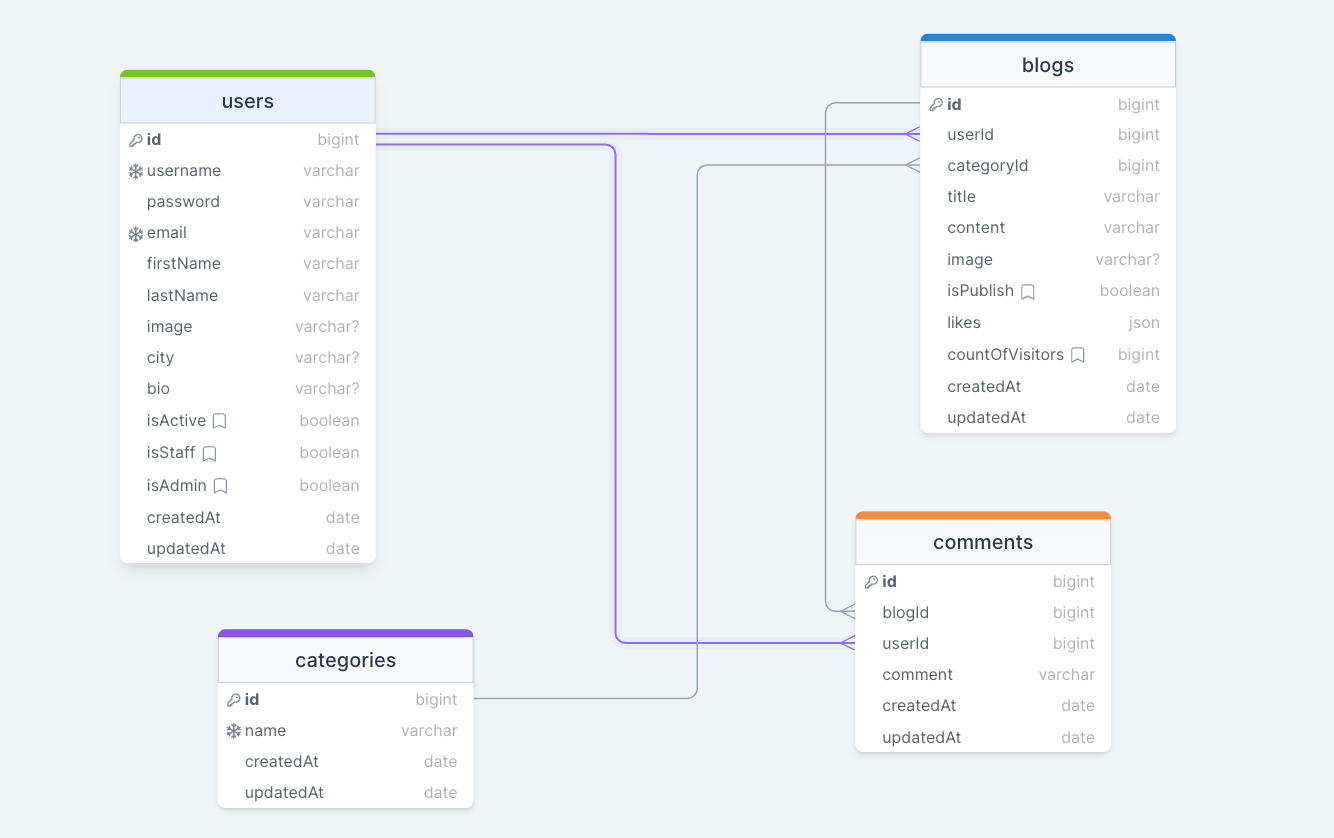
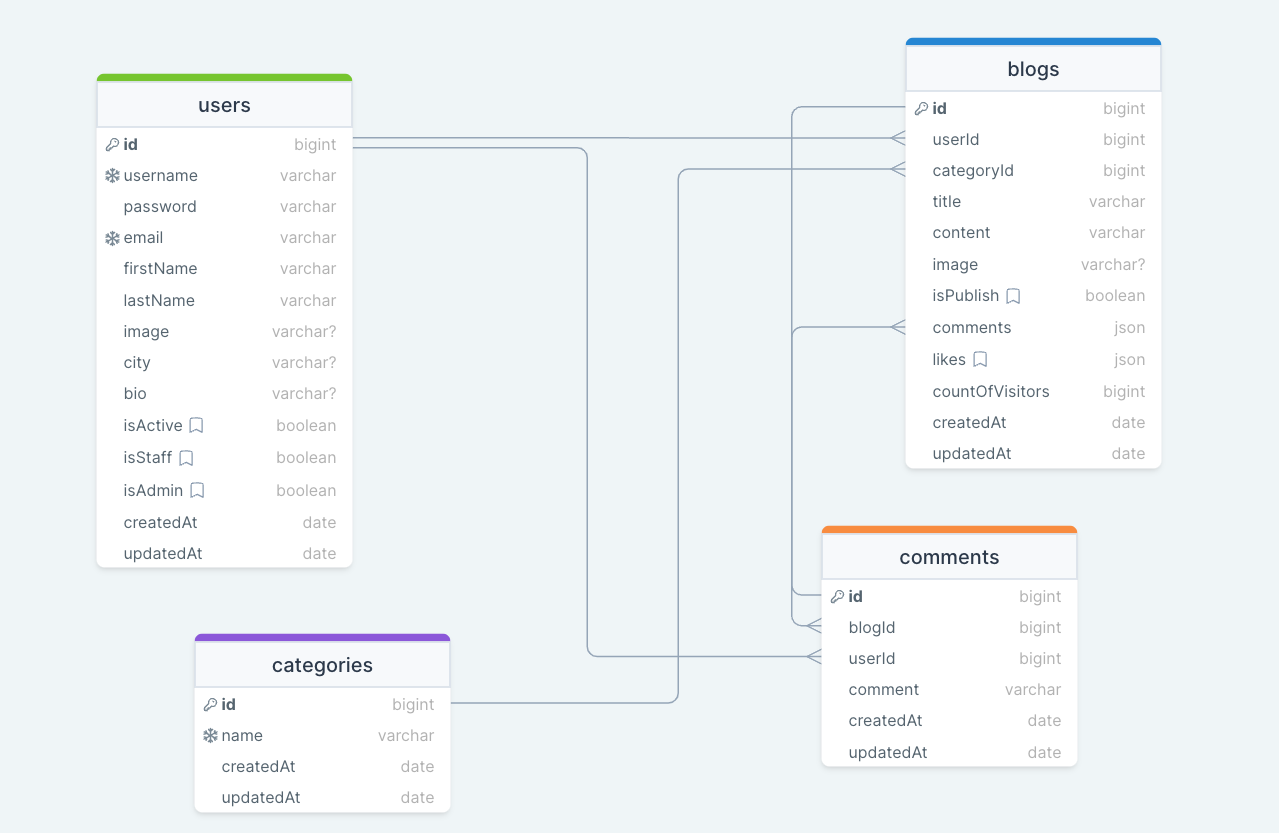
counter and comment end

Changed region(s): [[0.0915, 0.0312, 0.9148, 0.9052], [0.1525, 0.7491, 0.3659, 0.9676]]

diff --git a/src/controllers/blog.js b/src/controllers/blog.js
@@ -36,10 +36,25 @@ module.exports = {
 
     const data = await res.getModelList(Blog, filters);
 
+    const modifiedData = data.map((blog) => ({
+      _id: blog._id, // _id özelliğini kopyala
+      userId: blog.userId,
+      categoryId: blog.categoryId,
+      title: blog.title,
+      content: blog.content,
+      image: blog.image,
+      isPublish: blog.isPublish,
+      comments: blog.comments,
+      likes: blog.likes,
+      countOfVisitors: blog.countOfVisitors,
+      createdAt: blog.createdAt,
+      updatedAt: blog.updatedAt,
+    }));
+
     res.status(200).send({
       error: false,
       details: await res.getModelListDetails(Blog, filters),
-      data,
+      data: modifiedData,
     });
   },
 
@@ -69,7 +84,6 @@ module.exports = {
 
     res.status(201).send({
       error: false,
-      // body: req.body,
       data,
     });
   },
@@ -88,12 +102,52 @@ module.exports = {
         path: "comments",
         populate: { path: "userId", select: "username firstName lastName" },
       },
-      /* -------------------------------------------------------------------------- */
-
-      /* -------------------------------------------------------------------------- */
     ]);
 
+    if (!data) {
+      // Eğer blog bulunamadıysa, boş bir nesne dön
+      return res.status(404).send({
+        error: true,
+        message: "Blog not found",
+        data: {},
+      });
+    }
+
+    // console.log(data);
     /* -------------------------------------------------------------------------- */
+    // Check if the user's ID is already in visitedUsers array
+    // if (!data.visitedUsers.includes(req.user._id)) {
+    if (
+      data.visitedUsers &&
+      Array.isArray(data.visitedUsers) &&
+      !data.visitedUsers.includes(req.user._id)
+    ) {
+      // If not, push the user's ID to visitedUsers array
+      data.visitedUsers.push(req.user._id);
+
+      // Increment countOfVisitors for the blog
+      data.countOfVisitors++;
+
+      // Save the changes
+      await data.save();
+    }
+
+    // Check if the user has visited this blog before
+    // if (!req.user.visitedBlogs.includes(req.params.id)) {
+    if (
+      req.user?.visitedBlogs &&
+      Array.isArray(req.user.visitedBlogs) &&
+      !req.user?.visitedBlogs.includes(req.params.id)
+    ) {
+      // If not, mark the blog as visited for this user
+      req.user.visitedBlogs.push(req.params.id);
+
+      // Save the changes to the user model
+      await req.user.save();
+    }
+
+    /* -------------------------------------------------------------------------- */
+
     //! Count of visitor icin sonra edit lenecek...
     //* Visitor Counter for per IP:
     // if (req.session?.visitorIp != req.ip) {
@@ -103,13 +157,44 @@ module.exports = {
     // }
     //! Count of visitor icin sonra edit lenecek...
     /* -------------------------------------------------------------------------- */
+    // console.log(req.ip);
+    // console.log(req.session.visitorIp);
+
+    // if (!req.session.visitedBlogs) {
+    //   req.session.visitedBlogs = []; // Eğer ziyaret edilen bloglar için bir dizi yoksa, boş bir dizi oluştur
+    //   console.log("xxxxxxxx:" + req.session.visitedBlogs);
+    // }
+
+    // if (
+    //   req.session.visitorIp !== req.ip &&
+    //   !req.session.visitedBlogs.includes(data.blogId)
+    // ) {
+    //   req.session.visitorIp = req.ip;
+    //   req.session.visitedBlogs.push(data.blogId); // Ziyaret edilen blogları listeye ekleyin
+    //   data.countOfVisitors++;
+    //   data.save();
+    // }
 
     res.status(200).send({
       error: false,
-      data,
+      data: {
+        _id: data._id,
+        userId: data.userId,
+        categoryId: data.categoryId,
+        title: data.title,
+        content: data.content,
+        image: data.image,
+        isPublish: data.isPublish,
+        comments: data.comments,
+        likes: data.likes,
+        countOfVisitors: data.countOfVisitors,
+        createdAt: data.createdAt,
+        updatedAt: data.updatedAt,
+      },
     });
   },
 
+  /* -------------------------------------------------------------------------- */
   //! /:id -> PUT / PATCH
   update: async (req, res) => {
     /*
@@ -138,10 +223,28 @@ module.exports = {
       { runValidators: true }
     );
 
+    // Güncellenmiş blogu veritabanından al
+    const updatedBlog = await Blog.findOne({ _id: req.params.id });
+
+    const modifiedBlog = {
+      userId: updatedBlog.userId,
+      categoryId: updatedBlog.categoryId,
+      title: updatedBlog.title,
+      content: updatedBlog.content,
+      image: updatedBlog.image,
+      isPublish: updatedBlog.isPublish,
+      comments: updatedBlog.comments,
+      likes: updatedBlog.likes,
+      countOfVisitors: updatedBlog.countOfVisitors,
+      createdAt: updatedBlog.createdAt,
+      updatedAt: updatedBlog.updatedAt,
+    };
+
     res.status(202).send({
       error: false,
       data,
-      new: await Blog.findOne({ _id: req.params.id }),
+      new: modifiedBlog,
+      // new: await Blog.findOne({ _id: req.params.id }),
     });
   },
 

diff --git a/src/models/user.js b/src/models/user.js
@@ -1,4 +1,5 @@
 "use strict";
+const { json } = require("express");
 /* --------------------------------------------------------------------------
     * NODEJS EXPRESS | Blog API
 ----------------------------------------------------------------------------- */
@@ -92,12 +93,25 @@ const UserSchema = new mongoose.Schema(
       type: Boolean,
       default: false,
     },
+
+    visitedBlogs: {
+      type: [],
+      // select: false,
+    },
   },
   {
     collection: "users",
     timestamps: true,
   }
 );
+
+// /* -------------------------------------------------------------------------- */
+//! veriyi cikti vermeden hemen once manipulasyon:
+// pre ,init, pre save,postsave ...
+// UserSchema.pre("init", function (document) {
+//   document.__v = undefined; // görünümden kaldırır
+//   document.visitedBlogs = undefined; // görünümden kaldırır
+// });
 
 /* -------------------------------------------------------------------------- */
 module.exports = mongoose.model("User", UserSchema);

diff --git a/index.js b/index.js
@@ -16,6 +16,7 @@
 /* -------------------------------------------------------------------------- */
 //? Required Modules:
 const express = require("express");
+const session = require("express-session");
 const app = express();
 
 // envVariables to process.env:
@@ -24,6 +25,16 @@ const PORT = process.env?.PORT || 8000;
 
 // asyncErrors to errorHandler:
 require("express-async-errors");
+
+/* -------------------------------------------------------------------------- */
+//? Session Modules:
+app.use(
+  session({
+    secret: process.env?.SECRET_KEY,
+    resave: true, // Oturum bilgileri değişmediğinde bile oturum kayıtlarının tekrar kaydedilip kaydedilmeyeceğini belirler
+    saveUninitialized: true, // Oturum oluşturulduğunda oturum verisinin değişip değişmediğini belirler
+  })
+);
 
 /* -------------------------------------------------------------------------- */
 //? Configrations:

diff --git a/src/models/blog.js b/src/models/blog.js
@@ -71,6 +71,11 @@ const BlogSchema = new mongoose.Schema(
       type: Number,
       default: 0,
     },
+
+    visitedUsers: {
+      type: [],
+      // select: false,
+    },
   },
 
   {
@@ -78,6 +83,14 @@ const BlogSchema = new mongoose.Schema(
     timestamps: true,
   }
 );
+
+// /* -------------------------------------------------------------------------- */
+//! veriyi cikti vermeden hemen once manipulasyon:
+// pre ,init, pre save,postsave ...
+// BlogSchema.pre("init", function (document) {
+//   document.__v = undefined; // görünümden kaldırır
+//   document.visitedUsers = undefined; // görünümden kaldırır
+// });
 
 /* -------------------------------------------------------------------------- */
 module.exports = mongoose.model("Blog", BlogSchema);

diff --git a/src/controllers/comment.js b/src/controllers/comment.js
@@ -4,6 +4,7 @@
 ----------------------------------------------------------------------------- */
 //? Requaring
 const Comment = require("../models/comment");
+const Blog = require("../models/blog");
 
 /* -------------------------------------------------------------------------- */
 //? Comment CONTROLLER
@@ -51,8 +52,14 @@ module.exports = {
 
     // Add logined userId to req.body:
     req.body.userId = req.user._id;
+    // console.log(req.user._id);
 
     const data = await Comment.create(req.body);
+    // console.log(data._id);
+
+    const blog = await Blog.findById(req.body.blogId);
+    blog.comments.push(data._id);
+    await blog.save();
 
     res.status(201).send({
       error: false,
